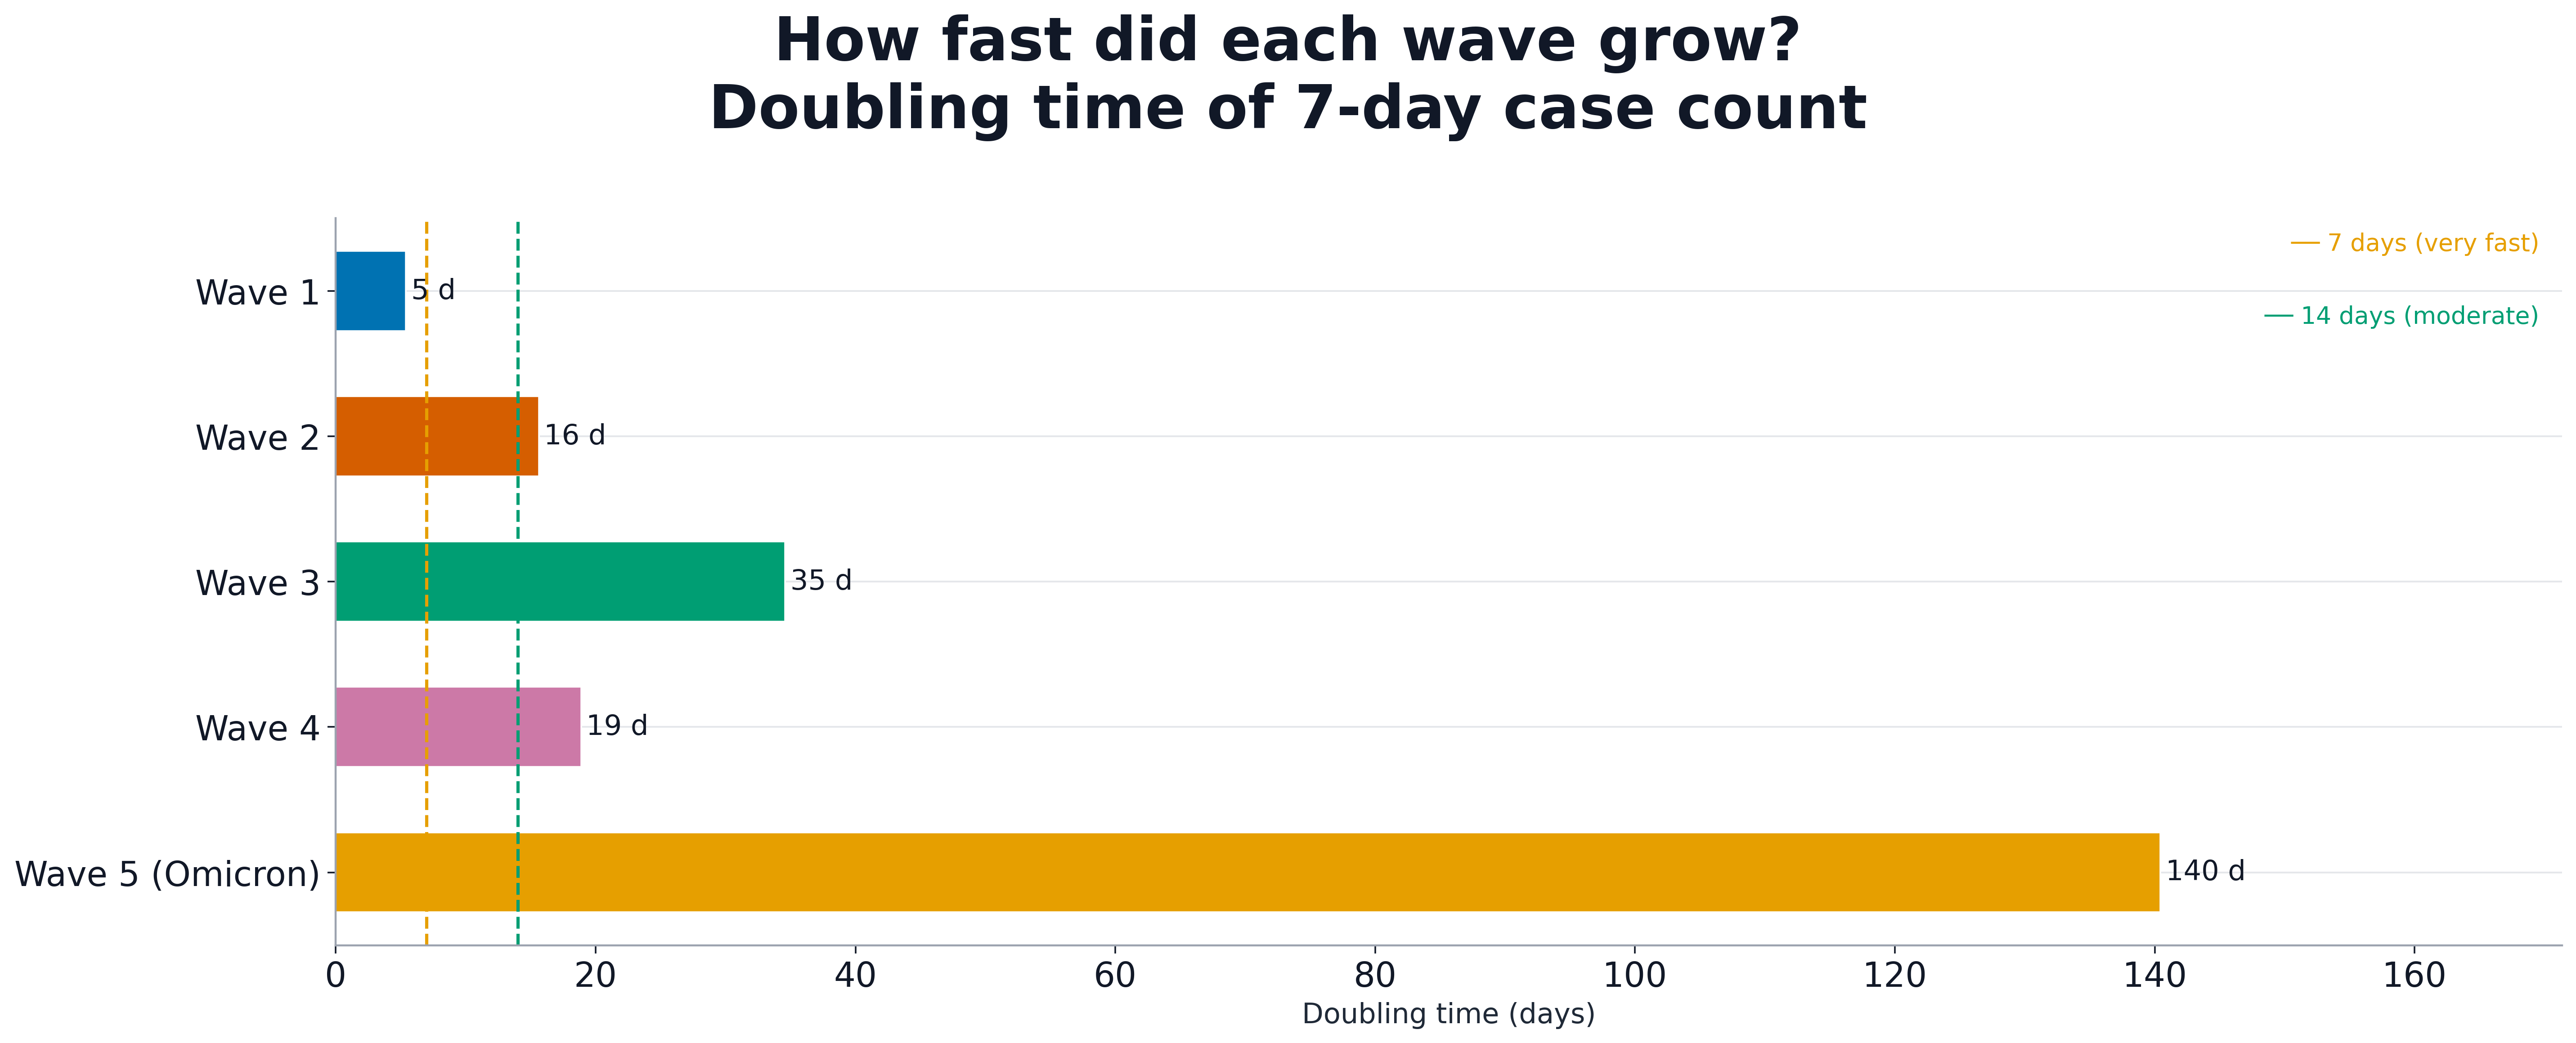
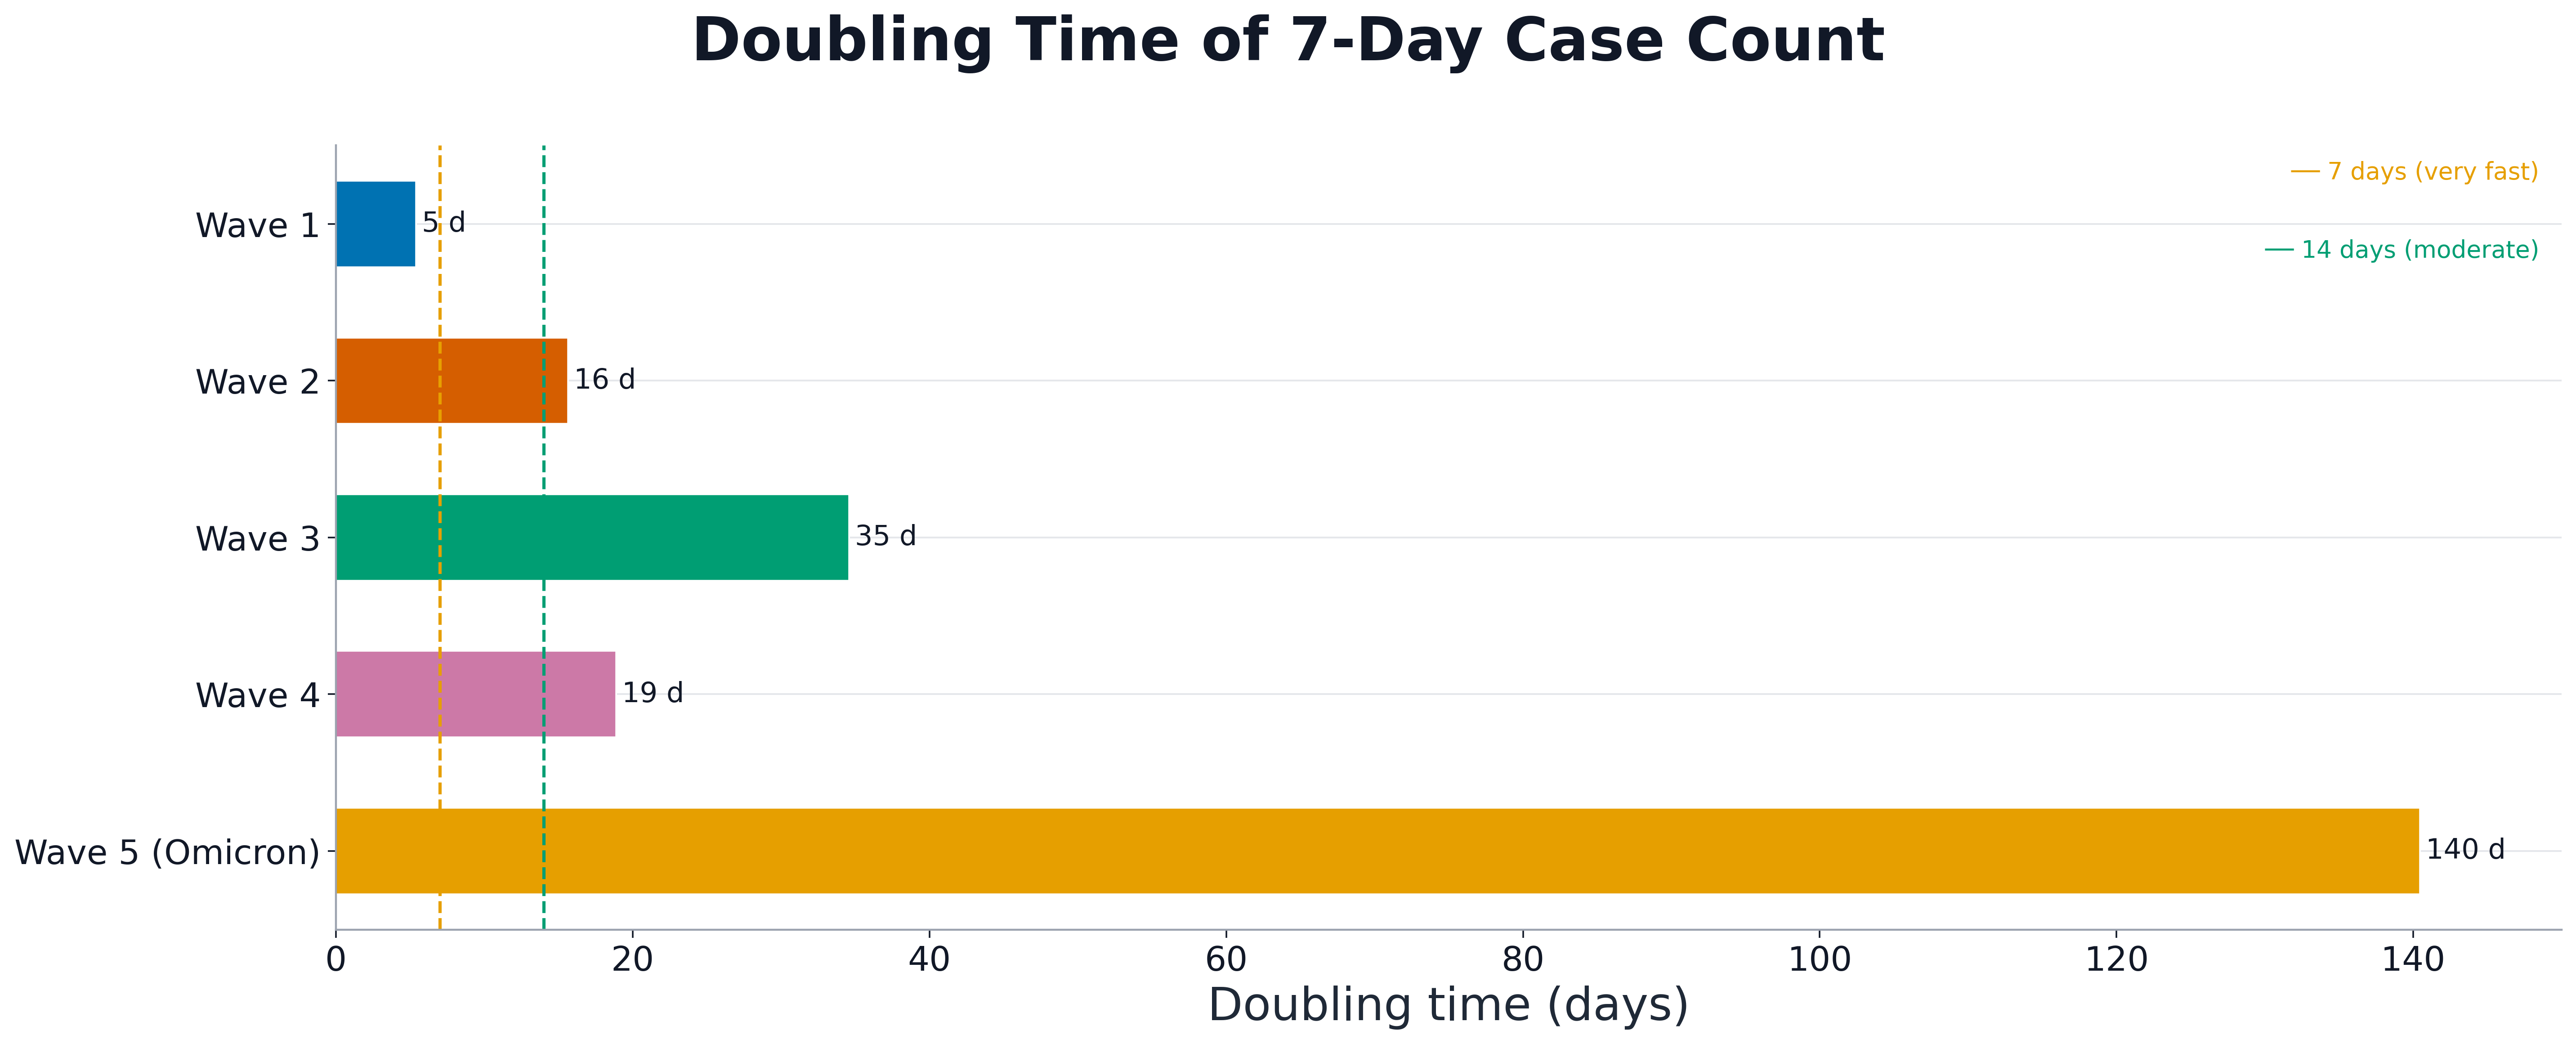
Update regression and forecast analyses

diff --git a/output/figures/plot06_regression_interactive.html b/output/figures/plot06_regression_interactive.html
@@ -2,6 +2,6 @@
 <head><meta charset="utf-8" /><style>html,body{width:100%;height:100%;margin:0;padding:0;overflow:hidden;}.js-plotly-plot,.plot-container{width:100%!important;height:100%!important;}</style></head>
 <body>
     <div>                        <script type="text/javascript">window.PlotlyConfig = {MathJaxConfig: 'local'};</script>
-        <script charset="utf-8" src="https://cdn.plot.ly/plotly-2.35.2.min.js"></script>                <div id="4a36b418-eb42-44e6-bc2f-358cd91f0bc8" class="plotly-graph-div" style="height:420px; width:100%;"></div>            <script type="text/javascript">                                    window.PLOTLYENV=window.PLOTLYENV || {};                                    if (document.getElementById("4a36b418-eb42-44e6-bc2f-358cd91f0bc8")) {                    Plotly.newPlot(                        "4a36b418-eb42-44e6-bc2f-358cd91f0bc8",                        [{"cliponaxis":false,"customdata":["\u003cb\u003eWave 1\u003c\u002fb\u003e\u003cbr\u003ePeriod: 2020-03-01 \u2013 2020-06-30\u003cbr\u003eDoubling time: \u003cb\u003e5.4 days\u003c\u002fb\u003e\u003cbr\u003eGrowth rate: 0.1285 day\u207b\u00b9","\u003cb\u003eWave 2\u003c\u002fb\u003e\u003cbr\u003ePeriod: 2020-10-01 \u2013 2021-02-28\u003cbr\u003eDoubling time: \u003cb\u003e15.6 days\u003c\u002fb\u003e\u003cbr\u003eGrowth rate: 0.0443 day\u207b\u00b9","\u003cb\u003eWave 3\u003c\u002fb\u003e\u003cbr\u003ePeriod: 2021-03-01 \u2013 2021-06-30\u003cbr\u003eDoubling time: \u003cb\u003e34.6 days\u003c\u002fb\u003e\u003cbr\u003eGrowth rate: 0.0200 day\u207b\u00b9","\u003cb\u003eWave 4\u003c\u002fb\u003e\u003cbr\u003ePeriod: 2021-10-01 \u2013 2022-01-31\u003cbr\u003eDoubling time: \u003cb\u003e18.9 days\u003c\u002fb\u003e\u003cbr\u003eGrowth rate: 0.0367 day\u207b\u00b9","\u003cb\u003eWave 5 (Omicron)\u003c\u002fb\u003e\u003cbr\u003ePeriod: 2022-02-01 \u2013 2022-06-30\u003cbr\u003eDoubling time: \u003cb\u003e140.4 days\u003c\u002fb\u003e\u003cbr\u003eGrowth rate: 0.0049 day\u207b\u00b9"],"hovertemplate":"%{customdata}\u003cextra\u003e\u003c\u002fextra\u003e","marker":{"color":["#0072B2","#D55E00","#009E73","#CC79A7","#E69F00"],"line":{"color":"white","width":0.8}},"orientation":"h","text":["\u003cb\u003e5 d\u003c\u002fb\u003e","\u003cb\u003e16 d\u003c\u002fb\u003e","\u003cb\u003e35 d\u003c\u002fb\u003e","\u003cb\u003e19 d\u003c\u002fb\u003e","\u003cb\u003e140 d\u003c\u002fb\u003e"],"textposition":"outside","x":[5.394331189878324,15.630832441631355,34.58315834537602,18.888832740583158,140.44196291911743],"y":["Wave 1","Wave 2","Wave 3","Wave 4","Wave 5 (Omicron)"],"type":"bar"}],                        {"template":{"data":{"barpolar":[{"marker":{"line":{"color":"white","width":0.5},"pattern":{"fillmode":"overlay","size":10,"solidity":0.2}},"type":"barpolar"}],"bar":[{"error_x":{"color":"#2a3f5f"},"error_y":{"color":"#2a3f5f"},"marker":{"line":{"color":"white","width":0.5},"pattern":{"fillmode":"overlay","size":10,"solidity":0.2}},"type":"bar"}],"carpet":[{"aaxis":{"endlinecolor":"#2a3f5f","gridcolor":"#C8D4E3","linecolor":"#C8D4E3","minorgridcolor":"#C8D4E3","startlinecolor":"#2a3f5f"},"baxis":{"endlinecolor":"#2a3f5f","gridcolor":"#C8D4E3","linecolor":"#C8D4E3","minorgridcolor":"#C8D4E3","startlinecolor":"#2a3f5f"},"type":"carpet"}],"choropleth":[{"colorbar":{"outlinewidth":0,"ticks":""},"type":"choropleth"}],"contourcarpet":[{"colorbar":{"outlinewidth":0,"ticks":""},"type":"contourcarpet"}],"contour":[{"colorbar":{"outlinewidth":0,"ticks":""},"colorscale":[[0.0,"#0d0887"],[0.1111111111111111,"#46039f"],[0.2222222222222222,"#7201a8"],[0.3333333333333333,"#9c179e"],[0.4444444444444444,"#bd3786"],[0.5555555555555556,"#d8576b"],[0.6666666666666666,"#ed7953"],[0.7777777777777778,"#fb9f3a"],[0.8888888888888888,"#fdca26"],[1.0,"#f0f921"]],"type":"contour"}],"heatmapgl":[{"colorbar":{"outlinewidth":0,"ticks":""},"colorscale":[[0.0,"#0d0887"],[0.1111111111111111,"#46039f"],[0.2222222222222222,"#7201a8"],[0.3333333333333333,"#9c179e"],[0.4444444444444444,"#bd3786"],[0.5555555555555556,"#d8576b"],[0.6666666666666666,"#ed7953"],[0.7777777777777778,"#fb9f3a"],[0.8888888888888888,"#fdca26"],[1.0,"#f0f921"]],"type":"heatmapgl"}],"heatmap":[{"colorbar":{"outlinewidth":0,"ticks":""},"colorscale":[[0.0,"#0d0887"],[0.1111111111111111,"#46039f"],[0.2222222222222222,"#7201a8"],[0.3333333333333333,"#9c179e"],[0.4444444444444444,"#bd3786"],[0.5555555555555556,"#d8576b"],[0.6666666666666666,"#ed7953"],[0.7777777777777778,"#fb9f3a"],[0.8888888888888888,"#fdca26"],[1.0,"#f0f921"]],"type":"heatmap"}],"histogram2dcontour":[{"colorbar":{"outlinewidth":0,"ticks":""},"colorscale":[[0.0,"#0d0887"],[0.1111111111111111,"#46039f"],[0.2222222222222222,"#7201a8"],[0.3333333333333333,"#9c179e"],[0.4444444444444444,"#bd3786"],[0.5555555555555556,"#d8576b"],[0.6666666666666666,"#ed7953"],[0.7777777777777778,"#fb9f3a"],[0.8888888888888888,"#fdca26"],[1.0,"#f0f921"]],"type":"histogram2dcontour"}],"histogram2d":[{"colorbar":{"outlinewidth":0,"ticks":""},"colorscale":[[0.0,"#0d0887"],[0.1111111111111111,"#46039f"],[0.2222222222222222,"#7201a8"],[0.3333333333333333,"#9c179e"],[0.4444444444444444,"#bd3786"],[0.5555555555555556,"#d8576b"],[0.6666666666666666,"#ed7953"],[0.7777777777777778,"#fb9f3a"],[0.8888888888888888,"#fdca26"],[1.0,"#f0f921"]],"type":"histogram2d"}],"histogram":[{"marker":{"pattern":{"fillmode":"overlay","size":10,"solidity":0.2}},"type":"histogram"}],"mesh3d":[{"colorbar":{"outlinewidth":0,"ticks":""},"type":"mesh3d"}],"parcoords":[{"line":{"colorbar":{"outlinewidth":0,"ticks":""}},"type":"parcoords"}],"pie":[{"automargin":true,"type":"pie"}],"scatter3d":[{"line":{"colorbar":{"outlinewidth":0,"ticks":""}},"marker":{"colorbar":{"outlinewidth":0,"ticks":""}},"type":"scatter3d"}],"scattercarpet":[{"marker":{"colorbar":{"outlinewidth":0,"ticks":""}},"type":"scattercarpet"}],"scattergeo":[{"marker":{"colorbar":{"outlinewidth":0,"ticks":""}},"type":"scattergeo"}],"scattergl":[{"marker":{"colorbar":{"outlinewidth":0,"ticks":""}},"type":"scattergl"}],"scattermapbox":[{"marker":{"colorbar":{"outlinewidth":0,"ticks":""}},"type":"scattermapbox"}],"scatterpolargl":[{"marker":{"colorbar":{"outlinewidth":0,"ticks":""}},"type":"scatterpolargl"}],"scatterpolar":[{"marker":{"colorbar":{"outlinewidth":0,"ticks":""}},"type":"scatterpolar"}],"scatter":[{"fillpattern":{"fillmode":"overlay","size":10,"solidity":0.2},"type":"scatter"}],"scatterternary":[{"marker":{"colorbar":{"outlinewidth":0,"ticks":""}},"type":"scatterternary"}],"surface":[{"colorbar":{"outlinewidth":0,"ticks":""},"colorscale":[[0.0,"#0d0887"],[0.1111111111111111,"#46039f"],[0.2222222222222222,"#7201a8"],[0.3333333333333333,"#9c179e"],[0.4444444444444444,"#bd3786"],[0.5555555555555556,"#d8576b"],[0.6666666666666666,"#ed7953"],[0.7777777777777778,"#fb9f3a"],[0.8888888888888888,"#fdca26"],[1.0,"#f0f921"]],"type":"surface"}],"table":[{"cells":{"fill":{"color":"#EBF0F8"},"line":{"color":"white"}},"header":{"fill":{"color":"#C8D4E3"},"line":{"color":"white"}},"type":"table"}]},"layout":{"annotationdefaults":{"arrowcolor":"#2a3f5f","arrowhead":0,"arrowwidth":1},"autotypenumbers":"strict","coloraxis":{"colorbar":{"outlinewidth":0,"ticks":""}},"colorscale":{"diverging":[[0,"#8e0152"],[0.1,"#c51b7d"],[0.2,"#de77ae"],[0.3,"#f1b6da"],[0.4,"#fde0ef"],[0.5,"#f7f7f7"],[0.6,"#e6f5d0"],[0.7,"#b8e186"],[0.8,"#7fbc41"],[0.9,"#4d9221"],[1,"#276419"]],"sequential":[[0.0,"#0d0887"],[0.1111111111111111,"#46039f"],[0.2222222222222222,"#7201a8"],[0.3333333333333333,"#9c179e"],[0.4444444444444444,"#bd3786"],[0.5555555555555556,"#d8576b"],[0.6666666666666666,"#ed7953"],[0.7777777777777778,"#fb9f3a"],[0.8888888888888888,"#fdca26"],[1.0,"#f0f921"]],"sequentialminus":[[0.0,"#0d0887"],[0.1111111111111111,"#46039f"],[0.2222222222222222,"#7201a8"],[0.3333333333333333,"#9c179e"],[0.4444444444444444,"#bd3786"],[0.5555555555555556,"#d8576b"],[0.6666666666666666,"#ed7953"],[0.7777777777777778,"#fb9f3a"],[0.8888888888888888,"#fdca26"],[1.0,"#f0f921"]]},"colorway":["#636efa","#EF553B","#00cc96","#ab63fa","#FFA15A","#19d3f3","#FF6692","#B6E880","#FF97FF","#FECB52"],"font":{"color":"#2a3f5f"},"geo":{"bgcolor":"white","lakecolor":"white","landcolor":"white","showlakes":true,"showland":true,"subunitcolor":"#C8D4E3"},"hoverlabel":{"align":"left"},"hovermode":"closest","mapbox":{"style":"light"},"paper_bgcolor":"white","plot_bgcolor":"white","polar":{"angularaxis":{"gridcolor":"#EBF0F8","linecolor":"#EBF0F8","ticks":""},"bgcolor":"white","radialaxis":{"gridcolor":"#EBF0F8","linecolor":"#EBF0F8","ticks":""}},"scene":{"xaxis":{"backgroundcolor":"white","gridcolor":"#DFE8F3","gridwidth":2,"linecolor":"#EBF0F8","showbackground":true,"ticks":"","zerolinecolor":"#EBF0F8"},"yaxis":{"backgroundcolor":"white","gridcolor":"#DFE8F3","gridwidth":2,"linecolor":"#EBF0F8","showbackground":true,"ticks":"","zerolinecolor":"#EBF0F8"},"zaxis":{"backgroundcolor":"white","gridcolor":"#DFE8F3","gridwidth":2,"linecolor":"#EBF0F8","showbackground":true,"ticks":"","zerolinecolor":"#EBF0F8"}},"shapedefaults":{"line":{"color":"#2a3f5f"}},"ternary":{"aaxis":{"gridcolor":"#DFE8F3","linecolor":"#A2B1C6","ticks":""},"baxis":{"gridcolor":"#DFE8F3","linecolor":"#A2B1C6","ticks":""},"bgcolor":"white","caxis":{"gridcolor":"#DFE8F3","linecolor":"#A2B1C6","ticks":""}},"title":{"x":0.05},"xaxis":{"automargin":true,"gridcolor":"#EBF0F8","linecolor":"#EBF0F8","ticks":"","title":{"standoff":15},"zerolinecolor":"#EBF0F8","zerolinewidth":2},"yaxis":{"automargin":true,"gridcolor":"#EBF0F8","linecolor":"#EBF0F8","ticks":"","title":{"standoff":15},"zerolinecolor":"#EBF0F8","zerolinewidth":2}}},"shapes":[{"line":{"color":"#E69F00","dash":"dash","width":1.8},"type":"line","x0":7,"x1":7,"xref":"x","y0":0,"y1":1,"yref":"y domain"},{"line":{"color":"#009E73","dash":"dash","width":1.8},"type":"line","x0":14,"x1":14,"xref":"x","y0":0,"y1":1,"yref":"y domain"}],"annotations":[{"font":{"color":"#E69F00","size":12},"showarrow":false,"text":"7 d \u2014 very fast","x":7,"xanchor":"left","y":1.08,"yref":"paper"},{"font":{"color":"#009E73","size":12},"showarrow":false,"text":"14 d \u2014 moderate","x":14,"xanchor":"left","y":1.02,"yref":"paper"}],"title":{"font":{"size":17,"color":"#111827"},"text":"How fast did each wave grow? \u2014 Doubling time per wave","x":0.5,"xanchor":"center"},"xaxis":{"title":{"text":"Doubling time (days)"},"range":[0,171.33919476132326],"showgrid":true,"gridcolor":"#E5E7EB"},"yaxis":{"tickfont":{"size":14},"autorange":"reversed"},"margin":{"l":20,"r":80,"t":70,"b":50},"height":420,"autosize":true,"showlegend":false},                        {"responsive": true, "displaylogo": false}                    )                };                            </script>        </div>
+        <script charset="utf-8" src="https://cdn.plot.ly/plotly-3.1.1.min.js" integrity="sha256-HUEFyfiTnZJxCxur99FjbKYTvKSzwDaD3/x5TqHpFu4=" crossorigin="anonymous"></script>                <div id="a53f2935-1570-4535-9493-711584245e1f" class="plotly-graph-div" style="height:420px; width:100%;"></div>            <script type="text/javascript">                window.PLOTLYENV=window.PLOTLYENV || {};                                if (document.getElementById("a53f2935-1570-4535-9493-711584245e1f")) {                    Plotly.newPlot(                        "a53f2935-1570-4535-9493-711584245e1f",                        [{"cliponaxis":false,"customdata":["\u003cb\u003eWave 1\u003c\u002fb\u003e\u003cbr\u003ePeriod: 2020-03-01 – 2020-06-30\u003cbr\u003eDoubling time: \u003cb\u003e5.4 days\u003c\u002fb\u003e\u003cbr\u003eGrowth rate: 0.1285 day⁻¹","\u003cb\u003eWave 2\u003c\u002fb\u003e\u003cbr\u003ePeriod: 2020-10-01 – 2021-02-28\u003cbr\u003eDoubling time: \u003cb\u003e15.6 days\u003c\u002fb\u003e\u003cbr\u003eGrowth rate: 0.0443 day⁻¹","\u003cb\u003eWave 3\u003c\u002fb\u003e\u003cbr\u003ePeriod: 2021-03-01 – 2021-06-30\u003cbr\u003eDoubling time: \u003cb\u003e34.6 days\u003c\u002fb\u003e\u003cbr\u003eGrowth rate: 0.0200 day⁻¹","\u003cb\u003eWave 4\u003c\u002fb\u003e\u003cbr\u003ePeriod: 2021-10-01 – 2022-01-31\u003cbr\u003eDoubling time: \u003cb\u003e18.9 days\u003c\u002fb\u003e\u003cbr\u003eGrowth rate: 0.0367 day⁻¹","\u003cb\u003eWave 5 (Omicron)\u003c\u002fb\u003e\u003cbr\u003ePeriod: 2022-02-01 – 2022-06-30\u003cbr\u003eDoubling time: \u003cb\u003e140.4 days\u003c\u002fb\u003e\u003cbr\u003eGrowth rate: 0.0049 day⁻¹"],"hovertemplate":"%{customdata}\u003cextra\u003e\u003c\u002fextra\u003e","marker":{"color":["#0072B2","#D55E00","#009E73","#CC79A7","#E69F00"],"line":{"color":"white","width":0.8}},"orientation":"h","text":["\u003cb\u003e5 d\u003c\u002fb\u003e","\u003cb\u003e16 d\u003c\u002fb\u003e","\u003cb\u003e35 d\u003c\u002fb\u003e","\u003cb\u003e19 d\u003c\u002fb\u003e","\u003cb\u003e140 d\u003c\u002fb\u003e"],"textposition":"outside","x":[5.394331189878324,15.630832441631357,34.58315834537602,18.888832740583158,140.44196291911743],"y":["Wave 1","Wave 2","Wave 3","Wave 4","Wave 5 (Omicron)"],"type":"bar"},{"hoverinfo":"skip","line":{"color":"#E69F00","dash":"dash","width":1.8},"mode":"lines","name":"7 d — very fast","showlegend":true,"x":[null],"y":[null],"type":"scatter"},{"hoverinfo":"skip","line":{"color":"#009E73","dash":"dash","width":1.8},"mode":"lines","name":"14 d — moderate","showlegend":true,"x":[null],"y":[null],"type":"scatter"}],                        {"template":{"data":{"barpolar":[{"marker":{"line":{"color":"white","width":0.5},"pattern":{"fillmode":"overlay","size":10,"solidity":0.2}},"type":"barpolar"}],"bar":[{"error_x":{"color":"#2a3f5f"},"error_y":{"color":"#2a3f5f"},"marker":{"line":{"color":"white","width":0.5},"pattern":{"fillmode":"overlay","size":10,"solidity":0.2}},"type":"bar"}],"carpet":[{"aaxis":{"endlinecolor":"#2a3f5f","gridcolor":"#C8D4E3","linecolor":"#C8D4E3","minorgridcolor":"#C8D4E3","startlinecolor":"#2a3f5f"},"baxis":{"endlinecolor":"#2a3f5f","gridcolor":"#C8D4E3","linecolor":"#C8D4E3","minorgridcolor":"#C8D4E3","startlinecolor":"#2a3f5f"},"type":"carpet"}],"choropleth":[{"colorbar":{"outlinewidth":0,"ticks":""},"type":"choropleth"}],"contourcarpet":[{"colorbar":{"outlinewidth":0,"ticks":""},"type":"contourcarpet"}],"contour":[{"colorbar":{"outlinewidth":0,"ticks":""},"colorscale":[[0.0,"#0d0887"],[0.1111111111111111,"#46039f"],[0.2222222222222222,"#7201a8"],[0.3333333333333333,"#9c179e"],[0.4444444444444444,"#bd3786"],[0.5555555555555556,"#d8576b"],[0.6666666666666666,"#ed7953"],[0.7777777777777778,"#fb9f3a"],[0.8888888888888888,"#fdca26"],[1.0,"#f0f921"]],"type":"contour"}],"heatmap":[{"colorbar":{"outlinewidth":0,"ticks":""},"colorscale":[[0.0,"#0d0887"],[0.1111111111111111,"#46039f"],[0.2222222222222222,"#7201a8"],[0.3333333333333333,"#9c179e"],[0.4444444444444444,"#bd3786"],[0.5555555555555556,"#d8576b"],[0.6666666666666666,"#ed7953"],[0.7777777777777778,"#fb9f3a"],[0.8888888888888888,"#fdca26"],[1.0,"#f0f921"]],"type":"heatmap"}],"histogram2dcontour":[{"colorbar":{"outlinewidth":0,"ticks":""},"colorscale":[[0.0,"#0d0887"],[0.1111111111111111,"#46039f"],[0.2222222222222222,"#7201a8"],[0.3333333333333333,"#9c179e"],[0.4444444444444444,"#bd3786"],[0.5555555555555556,"#d8576b"],[0.6666666666666666,"#ed7953"],[0.7777777777777778,"#fb9f3a"],[0.8888888888888888,"#fdca26"],[1.0,"#f0f921"]],"type":"histogram2dcontour"}],"histogram2d":[{"colorbar":{"outlinewidth":0,"ticks":""},"colorscale":[[0.0,"#0d0887"],[0.1111111111111111,"#46039f"],[0.2222222222222222,"#7201a8"],[0.3333333333333333,"#9c179e"],[0.4444444444444444,"#bd3786"],[0.5555555555555556,"#d8576b"],[0.6666666666666666,"#ed7953"],[0.7777777777777778,"#fb9f3a"],[0.8888888888888888,"#fdca26"],[1.0,"#f0f921"]],"type":"histogram2d"}],"histogram":[{"marker":{"pattern":{"fillmode":"overlay","size":10,"solidity":0.2}},"type":"histogram"}],"mesh3d":[{"colorbar":{"outlinewidth":0,"ticks":""},"type":"mesh3d"}],"parcoords":[{"line":{"colorbar":{"outlinewidth":0,"ticks":""}},"type":"parcoords"}],"pie":[{"automargin":true,"type":"pie"}],"scatter3d":[{"line":{"colorbar":{"outlinewidth":0,"ticks":""}},"marker":{"colorbar":{"outlinewidth":0,"ticks":""}},"type":"scatter3d"}],"scattercarpet":[{"marker":{"colorbar":{"outlinewidth":0,"ticks":""}},"type":"scattercarpet"}],"scattergeo":[{"marker":{"colorbar":{"outlinewidth":0,"ticks":""}},"type":"scattergeo"}],"scattergl":[{"marker":{"colorbar":{"outlinewidth":0,"ticks":""}},"type":"scattergl"}],"scattermapbox":[{"marker":{"colorbar":{"outlinewidth":0,"ticks":""}},"type":"scattermapbox"}],"scattermap":[{"marker":{"colorbar":{"outlinewidth":0,"ticks":""}},"type":"scattermap"}],"scatterpolargl":[{"marker":{"colorbar":{"outlinewidth":0,"ticks":""}},"type":"scatterpolargl"}],"scatterpolar":[{"marker":{"colorbar":{"outlinewidth":0,"ticks":""}},"type":"scatterpolar"}],"scatter":[{"fillpattern":{"fillmode":"overlay","size":10,"solidity":0.2},"type":"scatter"}],"scatterternary":[{"marker":{"colorbar":{"outlinewidth":0,"ticks":""}},"type":"scatterternary"}],"surface":[{"colorbar":{"outlinewidth":0,"ticks":""},"colorscale":[[0.0,"#0d0887"],[0.1111111111111111,"#46039f"],[0.2222222222222222,"#7201a8"],[0.3333333333333333,"#9c179e"],[0.4444444444444444,"#bd3786"],[0.5555555555555556,"#d8576b"],[0.6666666666666666,"#ed7953"],[0.7777777777777778,"#fb9f3a"],[0.8888888888888888,"#fdca26"],[1.0,"#f0f921"]],"type":"surface"}],"table":[{"cells":{"fill":{"color":"#EBF0F8"},"line":{"color":"white"}},"header":{"fill":{"color":"#C8D4E3"},"line":{"color":"white"}},"type":"table"}]},"layout":{"annotationdefaults":{"arrowcolor":"#2a3f5f","arrowhead":0,"arrowwidth":1},"autotypenumbers":"strict","coloraxis":{"colorbar":{"outlinewidth":0,"ticks":""}},"colorscale":{"diverging":[[0,"#8e0152"],[0.1,"#c51b7d"],[0.2,"#de77ae"],[0.3,"#f1b6da"],[0.4,"#fde0ef"],[0.5,"#f7f7f7"],[0.6,"#e6f5d0"],[0.7,"#b8e186"],[0.8,"#7fbc41"],[0.9,"#4d9221"],[1,"#276419"]],"sequential":[[0.0,"#0d0887"],[0.1111111111111111,"#46039f"],[0.2222222222222222,"#7201a8"],[0.3333333333333333,"#9c179e"],[0.4444444444444444,"#bd3786"],[0.5555555555555556,"#d8576b"],[0.6666666666666666,"#ed7953"],[0.7777777777777778,"#fb9f3a"],[0.8888888888888888,"#fdca26"],[1.0,"#f0f921"]],"sequentialminus":[[0.0,"#0d0887"],[0.1111111111111111,"#46039f"],[0.2222222222222222,"#7201a8"],[0.3333333333333333,"#9c179e"],[0.4444444444444444,"#bd3786"],[0.5555555555555556,"#d8576b"],[0.6666666666666666,"#ed7953"],[0.7777777777777778,"#fb9f3a"],[0.8888888888888888,"#fdca26"],[1.0,"#f0f921"]]},"colorway":["#636efa","#EF553B","#00cc96","#ab63fa","#FFA15A","#19d3f3","#FF6692","#B6E880","#FF97FF","#FECB52"],"font":{"color":"#2a3f5f"},"geo":{"bgcolor":"white","lakecolor":"white","landcolor":"white","showlakes":true,"showland":true,"subunitcolor":"#C8D4E3"},"hoverlabel":{"align":"left"},"hovermode":"closest","mapbox":{"style":"light"},"paper_bgcolor":"white","plot_bgcolor":"white","polar":{"angularaxis":{"gridcolor":"#EBF0F8","linecolor":"#EBF0F8","ticks":""},"bgcolor":"white","radialaxis":{"gridcolor":"#EBF0F8","linecolor":"#EBF0F8","ticks":""}},"scene":{"xaxis":{"backgroundcolor":"white","gridcolor":"#DFE8F3","gridwidth":2,"linecolor":"#EBF0F8","showbackground":true,"ticks":"","zerolinecolor":"#EBF0F8"},"yaxis":{"backgroundcolor":"white","gridcolor":"#DFE8F3","gridwidth":2,"linecolor":"#EBF0F8","showbackground":true,"ticks":"","zerolinecolor":"#EBF0F8"},"zaxis":{"backgroundcolor":"white","gridcolor":"#DFE8F3","gridwidth":2,"linecolor":"#EBF0F8","showbackground":true,"ticks":"","zerolinecolor":"#EBF0F8"}},"shapedefaults":{"line":{"color":"#2a3f5f"}},"ternary":{"aaxis":{"gridcolor":"#DFE8F3","linecolor":"#A2B1C6","ticks":""},"baxis":{"gridcolor":"#DFE8F3","linecolor":"#A2B1C6","ticks":""},"bgcolor":"white","caxis":{"gridcolor":"#DFE8F3","linecolor":"#A2B1C6","ticks":""}},"title":{"x":0.05},"xaxis":{"automargin":true,"gridcolor":"#EBF0F8","linecolor":"#EBF0F8","ticks":"","title":{"standoff":15},"zerolinecolor":"#EBF0F8","zerolinewidth":2},"yaxis":{"automargin":true,"gridcolor":"#EBF0F8","linecolor":"#EBF0F8","ticks":"","title":{"standoff":15},"zerolinecolor":"#EBF0F8","zerolinewidth":2}}},"shapes":[{"line":{"color":"#E69F00","dash":"dash","width":1.8},"type":"line","x0":7,"x1":7,"xref":"x","y0":0,"y1":1,"yref":"y domain"},{"line":{"color":"#009E73","dash":"dash","width":1.8},"type":"line","x0":14,"x1":14,"xref":"x","y0":0,"y1":1,"yref":"y domain"}],"title":{"font":{"size":17,"color":"#111827"},"text":"How fast did each wave grow? — Doubling time per wave","x":0.5,"xanchor":"center"},"xaxis":{"title":{"text":"Doubling time (days)"},"range":[0,171.33919476132326],"showgrid":true,"gridcolor":"#E5E7EB"},"yaxis":{"tickfont":{"size":14},"autorange":"reversed"},"legend":{"font":{"size":12,"color":"#374151"},"x":0.98,"y":0.98,"xanchor":"right","yanchor":"top","bgcolor":"rgba(255,255,255,0.82)","bordercolor":"rgba(229,231,235,0.95)","borderwidth":1},"margin":{"l":20,"r":80,"t":70,"b":50},"height":420,"autosize":true,"showlegend":true},                        {"responsive": true, "displaylogo": false}                    )                };            </script>        </div>
 </body>
 </html>

diff --git a/scripts/plot06_regression_trend.py b/scripts/plot06_regression_trend.py
@@ -1,4 +1,4 @@
-"""Plot 06 – Doubling time per pandemic wave.
+"""Plot 06 - Doubling time per pandemic wave.
 
 For each wave the growth phase (first 40 % of days) is fitted with an
 OLS regression on log(new_cases_7day) to estimate the exponential growth
@@ -27,12 +27,14 @@ INTERACTIVE_OUT = figures_dir / "plot06_regression_interactive.html"
 REGRESSION_WAVES = [k for k in wave_periods if k != "Decline"]
 
 WAVE_COLORS = [
-    "#0072B2",
-    "#D55E00",
-    "#009E73",
-    "#CC79A7",
+    palette["cases"],
+    palette["deaths"],
+    palette["vaccination"],
+    palette["boosters"],
     "#E69F00",
 ]
+
+X_AXIS_LIMIT = 150
 
 # Reference lines
 REF_FAST     = 7   # days  — "very fast"
@@ -113,7 +115,7 @@ def main() -> None:
 
     fig, ax = plt.subplots(figsize=(18, max(7, len(results) * 1.4)))
     fig.suptitle(
-        "How fast did each wave grow?\nDoubling time of 7-day case count",
+        "Doubling Time of 7-Day Case Count",
         fontsize=30,
         fontweight="bold",
         color=palette["slate"],
@@ -142,18 +144,18 @@ def main() -> None:
         )
 
     # Reference lines
-    ax.axvline(REF_FAST,     color="#E69F00", linestyle="--", linewidth=1.6)
-    ax.axvline(REF_MODERATE, color="#009E73", linestyle="--", linewidth=1.6)
+    ax.axvline(REF_FAST, color="#E69F00", linestyle="--", linewidth=1.6)
+    ax.axvline(REF_MODERATE, color=palette["vaccination"], linestyle="--", linewidth=1.6)
 
     ax.text(0.99, 0.98, f"── {REF_FAST} days (very fast)",
             transform=ax.transAxes, color="#E69F00",
             fontsize=12, va="top", ha="right")
     ax.text(0.99, 0.88, f"── {REF_MODERATE} days (moderate)",
-            transform=ax.transAxes, color="#009E73",
+            transform=ax.transAxes, color=palette["vaccination"],
             fontsize=12, va="top", ha="right")
 
-    ax.set_xlabel("Doubling time (days)", fontsize=14)
-    ax.set_xlim(0, max(doublings) * 1.22)
+    ax.set_xlabel("Doubling time (days)")
+    ax.set_xlim(0, X_AXIS_LIMIT)
     ax.invert_yaxis()   # top = earliest wave
     apply_style(ax, date_axis=False)
     fig.tight_layout()
@@ -206,20 +208,20 @@ def _build_plotly(results: list[dict]) -> None:
 
     # Reference lines
     x_max = max(doublings) * 1.22
-    for (val, label, color), y_pos in zip(
-        [
-            (REF_FAST,     f"{REF_FAST} d — very fast",  "#E69F00"),
-            (REF_MODERATE, f"{REF_MODERATE} d — moderate", "#009E73"),
-        ],
-        [1.08, 1.02],
-    ):
+    for val, label, color in [
+        (REF_FAST, f"{REF_FAST} d — very fast", "#E69F00"),
+        (REF_MODERATE, f"{REF_MODERATE} d — moderate", "#009E73"),
+    ]:
         fig.add_vline(x=val, line_dash="dash", line_color=color, line_width=1.8)
-        fig.add_annotation(
-            x=val, y=y_pos, yref="paper",
-            text=label, showarrow=False,
-            font={"size": 12, "color": color},
-            xanchor="left",
-        )
+        fig.add_trace(go.Scatter(
+            x=[None],
+            y=[None],
+            mode="lines",
+            name=label,
+            line={"color": color, "dash": "dash", "width": 1.8},
+            hoverinfo="skip",
+            showlegend=True,
+        ))
 
     fig.update_layout(
         title={
@@ -240,7 +242,17 @@ def _build_plotly(results: list[dict]) -> None:
         height=420,
         autosize=True,
         template="plotly_white",
-        showlegend=False,
+        showlegend=True,
+        legend={
+            "x": 0.98,
+            "y": 0.98,
+            "xanchor": "right",
+            "yanchor": "top",
+            "bgcolor": "rgba(255,255,255,0.82)",
+            "bordercolor": "rgba(229,231,235,0.95)",
+            "borderwidth": 1,
+            "font": {"size": 12, "color": "#374151"},
+        },
         margin={"l": 20, "r": 80, "t": 70, "b": 50},
     )
 

diff --git a/scripts/plot07_forecast_two_periods.py b/scripts/plot07_forecast_two_periods.py
@@ -1,4 +1,4 @@
-"""Plot 07 – Short-term forecasts using Holt-Winters exponential smoothing.
+"""Plot 07 - Short-term forecasts using Holt-Winters exponential smoothing.
 
 Two separate forecasts are made:
   Period A: training on Wave 2 growth, forecasting 30 days ahead.
@@ -16,7 +16,14 @@ import numpy as np
 import pandas as pd
 from statsmodels.tsa.holtwinters import ExponentialSmoothing
 
-from utils import apply_style, load_germany_daily, palette, save_figure
+from utils import (
+    apply_style,
+    axis_limits,
+    load_germany_daily,
+    number_formatter,
+    palette,
+    save_figure,
+)
 
 warnings.filterwarnings("ignore")
 
@@ -66,7 +73,7 @@ def main() -> None:
 
     fig, axes = plt.subplots(1, 2, figsize=(22, 10))
     fig.suptitle(
-        "Short-term forecasts: Holt-Winters exponential smoothing",
+        "Short-Term Forecasts: Holt-Winters Exponential Smoothing",
         fontsize=30,
         fontweight="bold",
         color=palette["slate"],
@@ -130,6 +137,8 @@ def main() -> None:
         ax.xaxis.set_major_formatter(mdates.DateFormatter("%b %Y"))
         plt.setp(ax.get_xticklabels(), rotation=30, ha="right")
         ax.set_ylabel("7-day incidence per 100 000")
+        ax.set_ylim(*axis_limits["incidence_per_100k"])
+        ax.yaxis.set_major_formatter(number_formatter())
         ax.legend(fontsize=13, loc="upper left")
 
     fig.tight_layout()